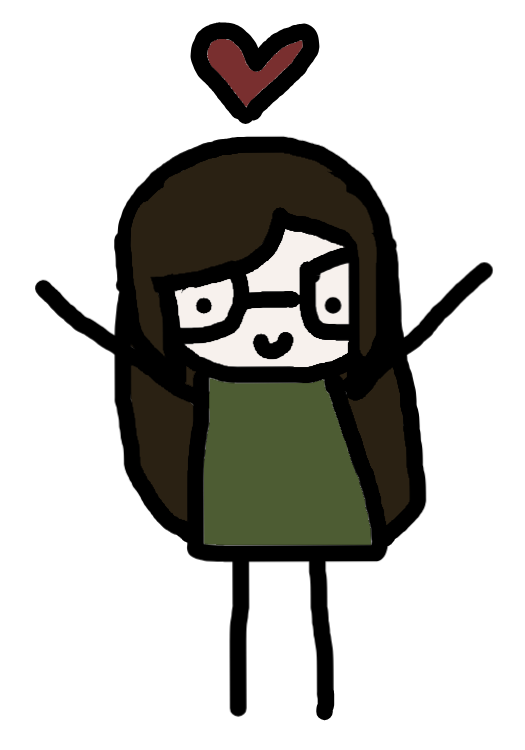
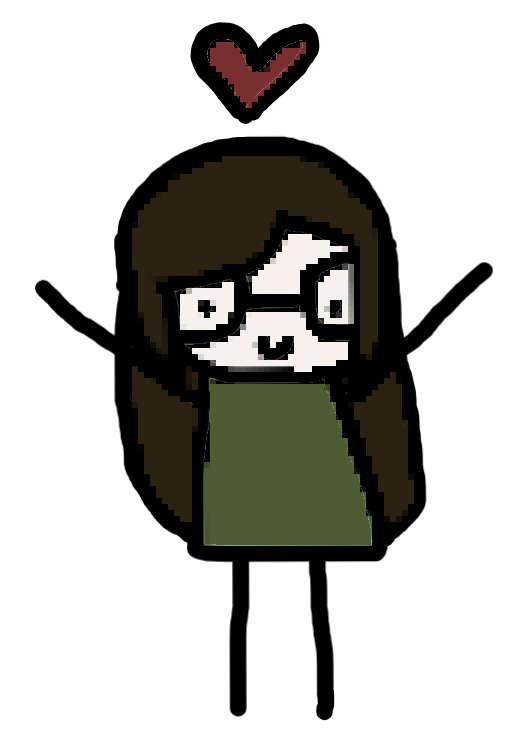
i gave up on settings and audio lmao, also fixed bugs

diff --git a/index.html b/index.html
@@ -16,8 +16,7 @@
             <h1 style="color: #d7d3d1;">lynn's minesweeper</h1>
             <div class="menu">
                 <a href="minesweeper.html"><button class="menubutton">minesweeper</button></a>
-                <a href="about.html"><button class="menubutton">about</button></a>
-                <a href="settings.html"><button class="menubutton">settings</button></a>                
+                <a href="about.html"><button class="menubutton">about</button></a>               
                 <a href="credits.html"><button class="menubutton">credits</button></a>
             </div>
     </body>

diff --git a/style.css b/style.css
@@ -32,7 +32,7 @@ body{
     background: #1d1c1c;
 }
 
-#reset, .menubutton, .paragraph, .checkbox{
+#reset, .menubutton, .paragraph{
     display: block;
     font-size: 23px;
     background: #d7d3d1;
@@ -84,11 +84,6 @@ a{
     border: 2px solid;
     padding-bottom: 20px;
     border-color: #fffefe #726a65 #726a65 #fffefe;
-}
-
-.checkbox{
-    height: 25px;
-    width: 25px;
 }
 
 .inline{

diff --git a/script.js b/script.js
@@ -301,7 +301,7 @@ function main() {
 
     createFieldButtons(view, state);
     initView(view, state);
-    handleGameEvents(view, state);
+    handleGameEvents(view, state, widthInput, heightInput, minesInput);
 }
 
 main();

diff --git a/about.html b/about.html
@@ -31,3 +31,4 @@
             </div>
         <button class="menubutton" onclick="window.history.back()">back</button>
     </body>
+</html>

diff --git a/credits.html b/credits.html
@@ -30,3 +30,4 @@
         </div>
         <button class="menubutton" onclick="window.history.back()">back</button>
     </body>
+</html>
